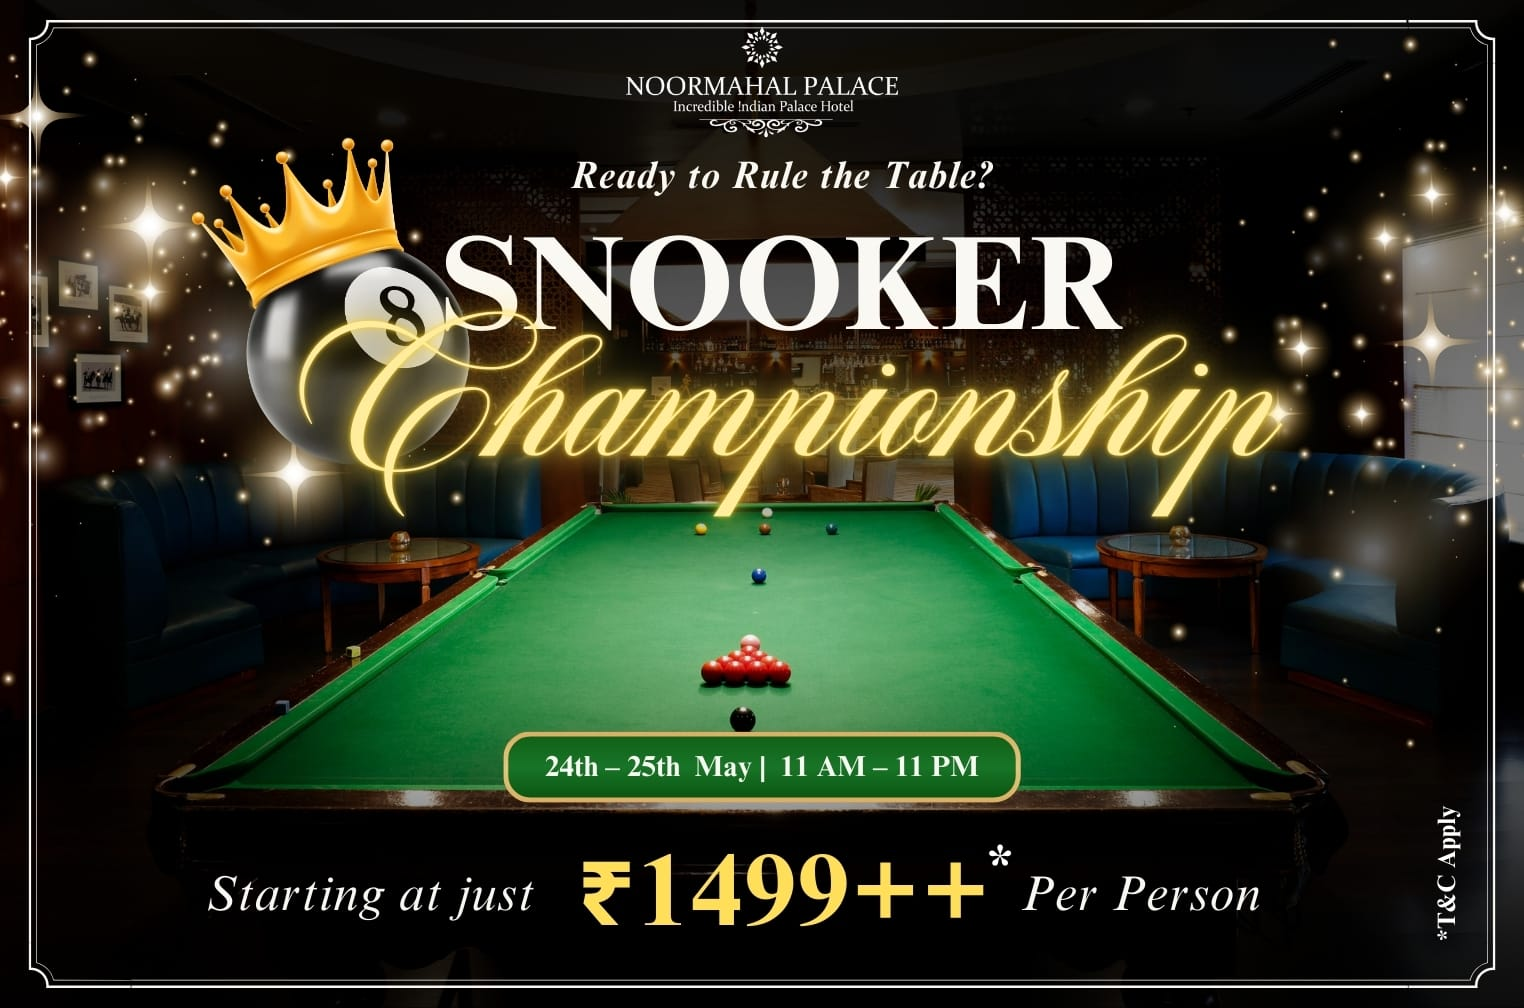
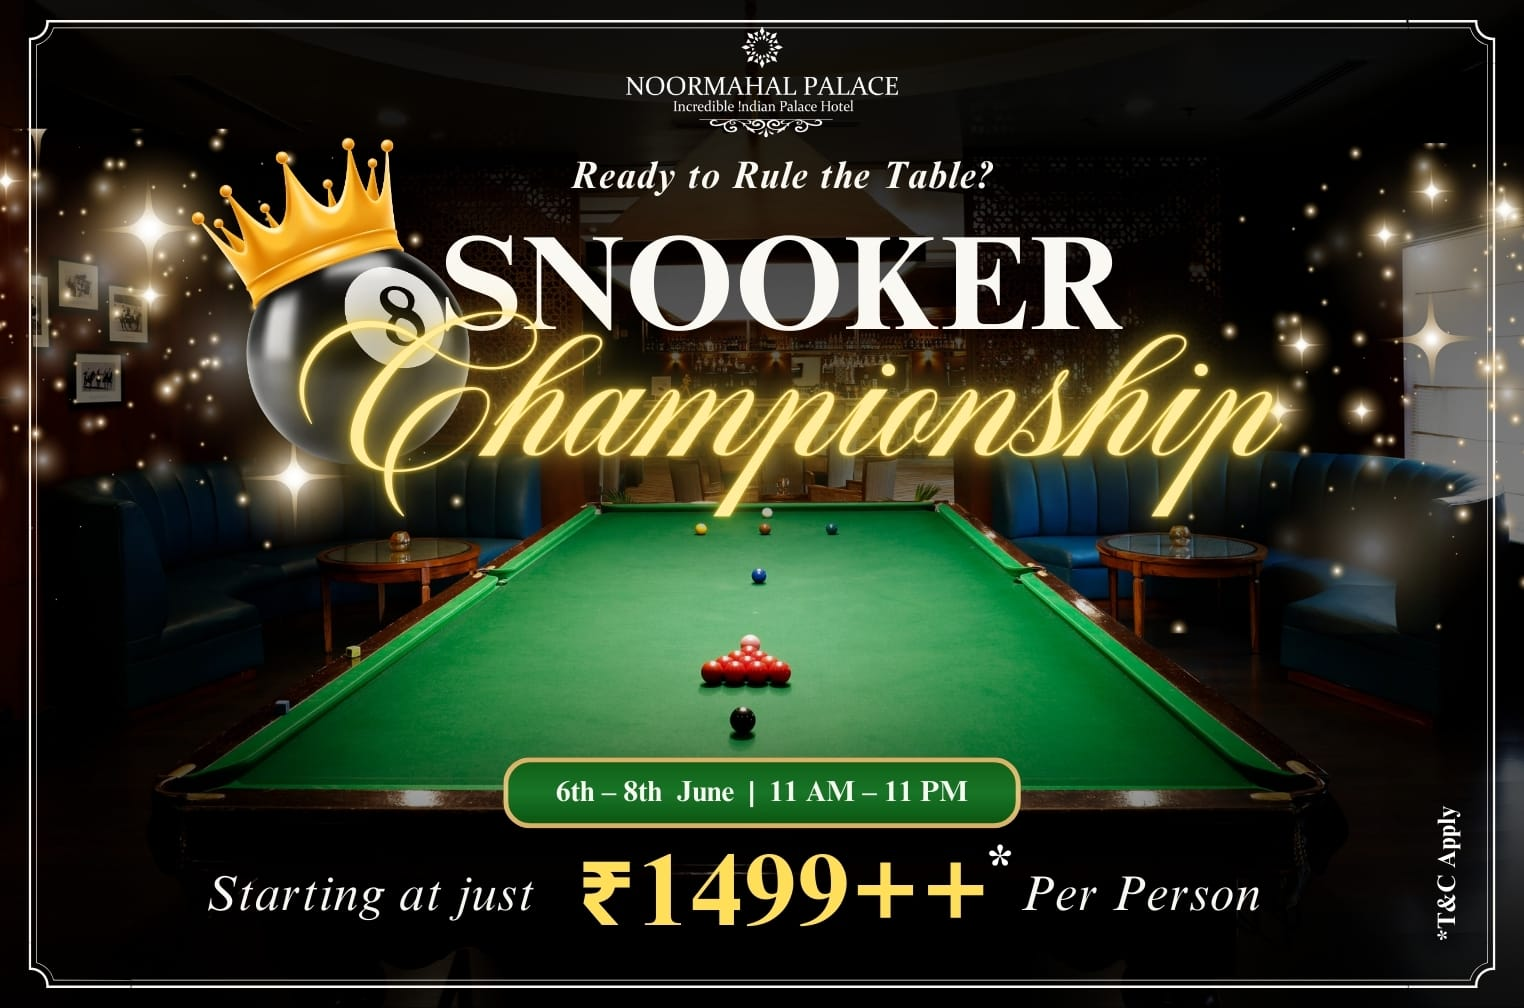
added promotion

diff --git a/src/pages/promotions/index.jsx b/src/pages/promotions/index.jsx
@@ -8,6 +8,16 @@ const promotions = [
     image: 'assets/images/promotion/snooker.jpg',
     knowMoreLink: null,
   },
+  {
+    image: 'assets/images/promotion/mango-madness.jpg',
+    knowMoreLink: null,
+  },
+
+  {
+    image: 'assets/images/promotion/royal-hospitality.jpg',
+    knowMoreLink: null,
+  },
+
   // {
   //   image: 'assets/images/promotion/mothers-day.jpg',
   //   knowMoreLink: null,
